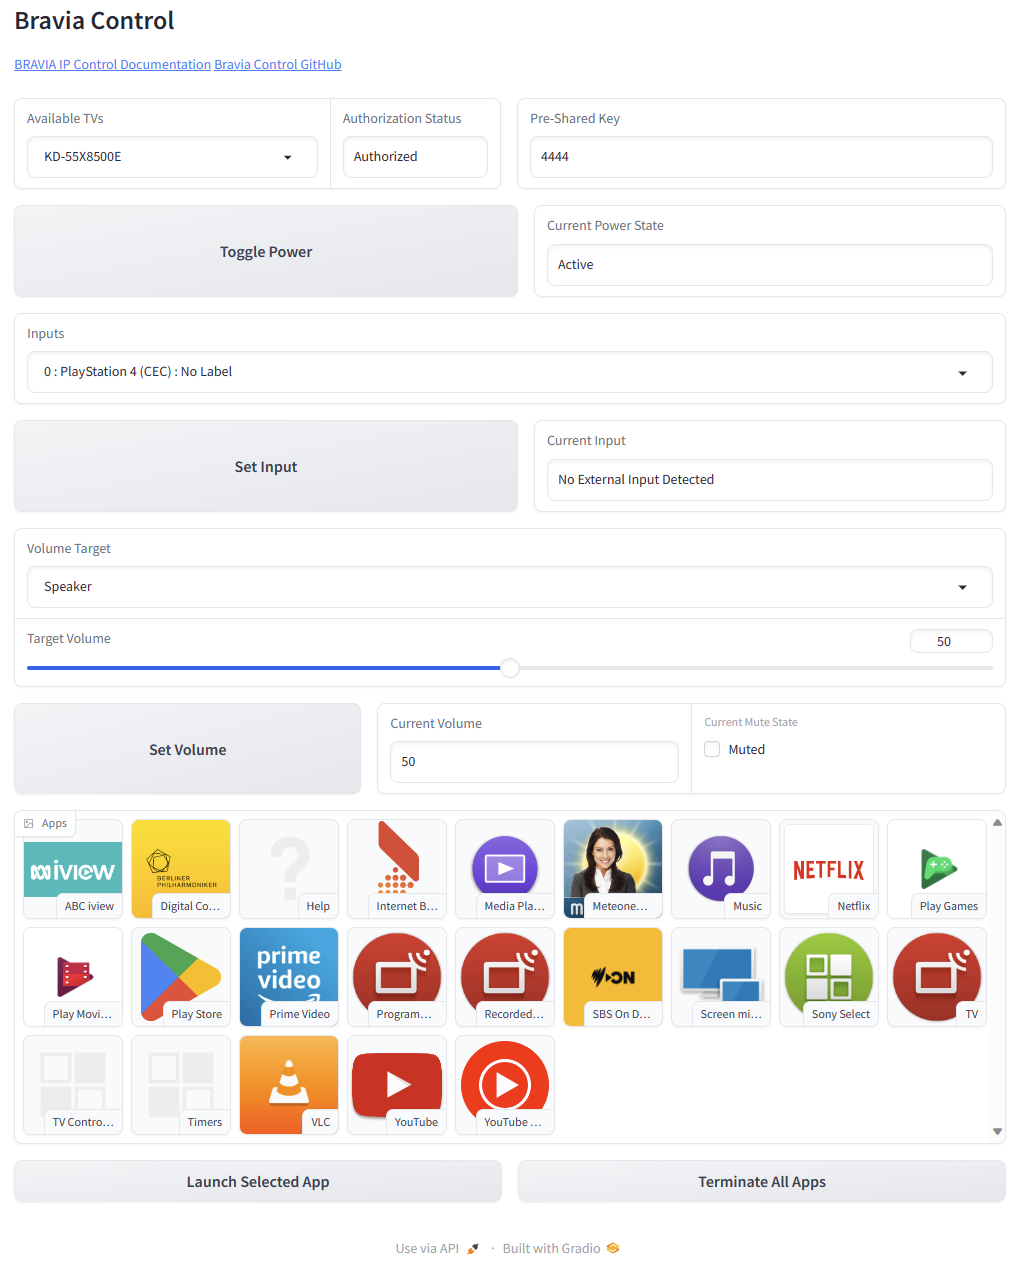
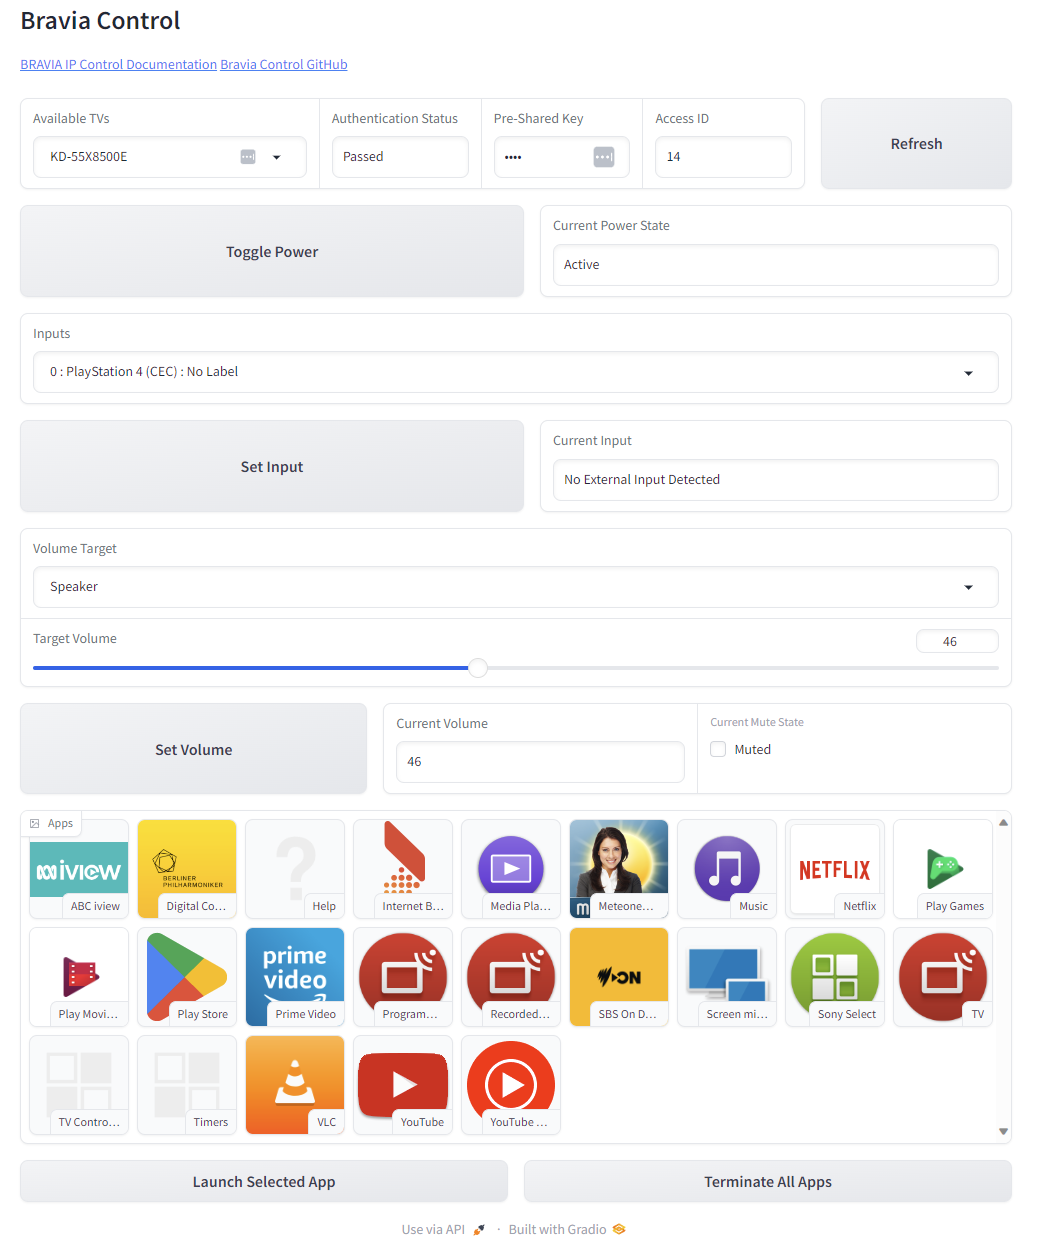
Add refresh and access id controls

diff --git a/bcfrontend.py b/bcfrontend.py
@@ -11,6 +11,7 @@ class FrontendGUI:
         self.client = None
         self.auth_status = None
         self._psk = None
+        self.id = 1
         self.inputs = None
         self.input = None
         self.power_status = None
@@ -20,6 +21,8 @@ class FrontendGUI:
 
         self.tvs_dropdown = None
         self.psk_textbox = None
+        self.id_textbox = None
+        self.refresh_button = None
         self.power_button = None
         self.power_textbox = None
         self.inputs_dropdown = None
@@ -46,11 +49,13 @@ class FrontendGUI:
             github_link_1 = '[Bravia Control GitHub]'
             github_link_2 = '()'
             gr.Markdown(f'{heading}\n{bravia_link_1}{bravia_link_2} {github_link_1}{github_link_2}')
+            
             with gr.Row():
-                with gr.Row():
-                    self.tvs_dropdown = self.get_tvs_dropdown()
-                    self.auth_textbox = self.get_auth_textbox()
+                self.tvs_dropdown = self.get_tvs_dropdown()
+                self.auth_textbox = self.get_auth_textbox()
                 self.psk_textbox = self.get_psk_textbox()
+                self.id_textbox = self.get_id_textbox()
+                self.refresh_button = self.get_refresh_button()
 
             with gr.Row():
                 self.power_button = self.get_power_button()
@@ -74,14 +79,16 @@ class FrontendGUI:
                 self.app_launch_button = self.get_app_launch_button()
                 self.app_terminate_button = self.get_app_terminate_button()
 
-            self.components = [self.auth_textbox, self.psk_textbox, self.power_button, self.power_textbox,
-                               self.inputs_dropdown, self.input_button, self.input_textbox, self.volume_dropdown,
-                               self.volume_slider, self.volume_button, self.volume_textbox, self.mute_checkbox,
-                               self.app_gallery, self.app_launch_button, self.app_terminate_button]
+            self.components = [self.auth_textbox, self.psk_textbox, self.id_textbox, self.power_button,
+                               self.power_textbox, self.inputs_dropdown, self.input_button, self.input_textbox,
+                               self.volume_dropdown, self.volume_slider, self.volume_button, self.volume_textbox,
+                               self.mute_checkbox, self.app_gallery, self.app_launch_button, self.app_terminate_button]
 
             self.psk_textbox.submit(self.set_psk_textbox, inputs=self.psk_textbox,
                                     outputs=[self.tvs_dropdown] + self.components)
             self.tvs_dropdown.change(self.set_tvs_dropdown, inputs=self.tvs_dropdown, outputs=self.components)
+            self.id_textbox.submit(self.set_id_textbox, inputs=self.id_textbox, outputs=self.id_textbox)
+            self.refresh_button.click(self.set_refresh_button, outputs=self.components)
             self.power_button.click(self.set_power_button, outputs=self.components)
             self.input_button.click(self.set_input_button, inputs=self.inputs_dropdown,
                                     outputs=[self.inputs_dropdown, self.input_textbox])
@@ -113,11 +120,12 @@ class FrontendGUI:
                            interactive=True, scale=2)
     
     def refresh_interface(self):
-        return [self.get_auth_textbox(), self.get_psk_textbox(), self.get_power_button(),
-                self.get_power_textbox(), self.get_inputs_dropdown(), self.get_input_button(),
-                self.get_input_textbox(), self.get_volume_dropdown(), self.get_volume_slider(),
-                self.get_volume_button(), self.get_volume_textbox(), self.get_mute_checkbox(),
-                self.get_app_gallery(), self.get_app_launch_button(), self.get_app_terminate_button()]
+        return [self.get_auth_textbox(), self.get_psk_textbox(), self.get_id_textbox(),
+                self.get_power_button(), self.get_power_textbox(), self.get_inputs_dropdown(),
+                self.get_input_button(), self.get_input_textbox(), self.get_volume_dropdown(),
+                self.get_volume_slider(), self.get_volume_button(), self.get_volume_textbox(),
+                self.get_mute_checkbox(), self.get_app_gallery(), self.get_app_launch_button(),
+                self.get_app_terminate_button()]
 
     def set_tvs_dropdown(self, tvs_index):
         self.tvs_index = tvs_index
@@ -135,9 +143,28 @@ class FrontendGUI:
         value = 'N/A'
         if self.tv: value = 'Passed' if self.auth_status else 'Failed'
         return gr.Textbox(label='Authentication Status', value=value, interactive=False)
+    
+    def get_id_textbox(self):
+            value = 1
+            if self.id: value = self.id
+            return gr.Textbox(label='Access ID', value=value, interactive=True)
+
+    def set_id_textbox(self, id):
+        try: id = int(id)
+        except: id = 1
+        if id <= 0: id = 1
+        self.id = id
+        return gr.Textbox(label='Access ID', value=id, interactive=True)
+
+    def get_refresh_button(self):
+        return gr.Button(value='Refresh', interactive=True)
+
+    def set_refresh_button(self):
+        return self.refresh_interface()
 
     def get_psk_textbox(self):
-        return gr.Textbox(label='Pre-Shared Key', value=self.psk, type='password', interactive=True)
+        return gr.Textbox(label='Pre-Shared Key', value=self.psk, type='password',
+                           interactive=True)
     
     def set_psk_textbox(self, psk):
         self.psk = psk
@@ -151,7 +178,7 @@ class FrontendGUI:
 
     def set_power_button(self):
         status = get_power_status(self.client)
-        set_request = RESTRequest('system', 'setPowerStatus', params={'status': not status})
+        set_request = RESTRequest('system', 'setPowerStatus', params={'status': not status}, id=self.id)
         _ = self.client.send_request(set_request)
         sleep(5.0)
         self.power_status = get_power_status(self.client)
@@ -171,12 +198,12 @@ class FrontendGUI:
             value = choices[0]
             interactive = False
         else:
-            inputs_request = RESTRequest('avContent', 'getCurrentExternalInputsStatus', ver=1.0)
+            inputs_request = RESTRequest('avContent', 'getCurrentExternalInputsStatus', ver=1.0, id=self.id)
             inputs_response = self.client.send_request(inputs_request)
             self.inputs = get_inputs(inputs_response)
             choices = [f'{item["index"]} : {item["title"]} : {item["label"]}' for item in self.inputs]
             value = choices[0]
-            input_request = RESTRequest('avContent', 'getPlayingContentInfo')
+            input_request = RESTRequest('avContent', 'getPlayingContentInfo', id=self.id)
             input_response = self.client.send_request(input_request)
             input = get_input(input_response, inputs_response)
             if input: value = f'{input["index"]} : {input["title"]} : {input["label"]}'
@@ -190,7 +217,7 @@ class FrontendGUI:
 
     def set_input_button(self, input_index):
         uri = self.inputs[input_index]['uri']
-        set_request = RESTRequest('avContent', 'setPlayContent', params={'uri': uri})
+        set_request = RESTRequest('avContent', 'setPlayContent', params={'uri': uri}, id=self.id)
         _ = self.client.send_request(set_request)
         sleep(5.0)
         self.input = self.inputs[input_index]
@@ -203,9 +230,9 @@ class FrontendGUI:
             value = 'No TV Selected or Unauthorized'
         else:
             value = 'No External Input Detected'
-            input_request = RESTRequest('avContent', 'getPlayingContentInfo')
+            input_request = RESTRequest('avContent', 'getPlayingContentInfo', id=self.id)
             input_response = self.client.send_request(input_request)
-            inputs_request = RESTRequest('avContent', 'getCurrentExternalInputsStatus', ver=1.0)
+            inputs_request = RESTRequest('avContent', 'getCurrentExternalInputsStatus', ver=1.0, id=self.id)
             inputs_response = self.client.send_request(inputs_request)
             input = get_input(input_response, inputs_response)
             if input: value = f'{input["index"]} : {input["title"]} : {input["label"]}'
@@ -215,7 +242,7 @@ class FrontendGUI:
         choices = ['No Target(s) Available']
         interactive = False
         if self.auth_status:
-            request = RESTRequest('audio', 'getVolumeInformation')
+            request = RESTRequest('audio', 'getVolumeInformation', id=self.id)
             response = self.client.send_request(request)
             result = response.data.get('result')
             if result:
@@ -226,7 +253,7 @@ class FrontendGUI:
                            interactive=interactive, type='index')
     
     def set_volume_dropdown(self, volume_index):
-        request = RESTRequest('audio', 'getVolumeInformation')
+        request = RESTRequest('audio', 'getVolumeInformation', id=self.id)
         response = self.client.send_request(request)
         self.volume_index = None
         self.volume_status = None
@@ -268,7 +295,7 @@ class FrontendGUI:
                 #'ui': None
             }
             while self.volume_status['volume'] != volume:
-                request = RESTRequest('audio', 'setAudioVolume', params=params, ver=1.0)
+                request = RESTRequest('audio', 'setAudioVolume', params=params, ver=1.0, id=self.id)
                 _ = self.client.send_request(request)
                 sleep(1.0)
                 self.volume_status = self.set_volume_status()
@@ -297,7 +324,7 @@ class FrontendGUI:
     def set_mute_checkbox(self, mute):
         interactive = self.auth_status and bool(self.volume_status)
         if interactive:
-            request = RESTRequest('audio', 'setAudioMute', params={'status': mute})
+            request = RESTRequest('audio', 'setAudioMute', params={'status': mute}, id=self.id)
             _ = self.client.send_request(request)
             self.volume_status = self.set_volume_status()
             if self.volume_status:
@@ -306,7 +333,7 @@ class FrontendGUI:
                            interactive=interactive)
     
     def set_volume_status(self):
-        request = RESTRequest('audio', 'getVolumeInformation')
+        request = RESTRequest('audio', 'getVolumeInformation', id=self.id)
         response = self.client.send_request(request)
         if response.data.get('result'):
             result = response.data['result'][0]
@@ -337,9 +364,9 @@ class FrontendGUI:
     def set_app_launch_button(self):
         if self.app_index is not None:
             app_uri = self.apps[self.app_index]['uri']
-            request = RESTRequest('appControl', 'setActiveApp', params={'uri': app_uri})
+            request = RESTRequest('appControl', 'setActiveApp', params={'uri': app_uri}, id=self.id)
             _ = self.client.send_request(request)
     
     def set_app_terminate_button(self):
-        request = RESTRequest('appControl', 'terminateApps')
+        request = RESTRequest('appControl', 'terminateApps', id=self.id)
         _ = self.client.send_request(request)

diff --git a/README.md b/README.md
@@ -36,6 +36,8 @@ Enter a pre-shared key to authenticate access to the current TV.
 - Available TVs: A dropdown for selecting BRAVIA TVs that can potentially be controlled.
 - Authentication Status: Displays if access is authenticated.
 - Pre-Shared Key: Enter the pre-shared key needed for authentication to pass.
+- Access ID: The current ID being used to access the API.
+- Refresh: Refreshes info for the currently selected TV.
 - Toggle Power: Changes the power state.
 - Current Power State: Displays the power state.
 - Inputs: A dropdown for selecting the input to be set.
@@ -56,5 +58,4 @@ Enter a pre-shared key to authenticate access to the current TV.
 - Why are some options unavailable when I select a TV? Most controls are only available if you have authentication. Please see [here](https://pro-bravia.sony.net/develop/integrate/ip-control/index.html) for information on configuring authentication. Input and Audio controls are also unavailable if the currently selected TV is in `Standby` mode.
 - Are my credentials stored safely? No. They are stored in plaintext if you use `tvs.txt`. All pre-shared keys are not stored in encrypted memory while this program is running.
 - Can I control multiple TVs at once? No. You can only control one TV at a time. Controlling multiple TVs is not the intended purpose of this program.
-- Can I change access IDs? No, not yet. Access IDs will be added in the future.
 - Can I change API method versions? No. All of the current GUI features depend only on version 1.0 for all API methods implemented thus far.
